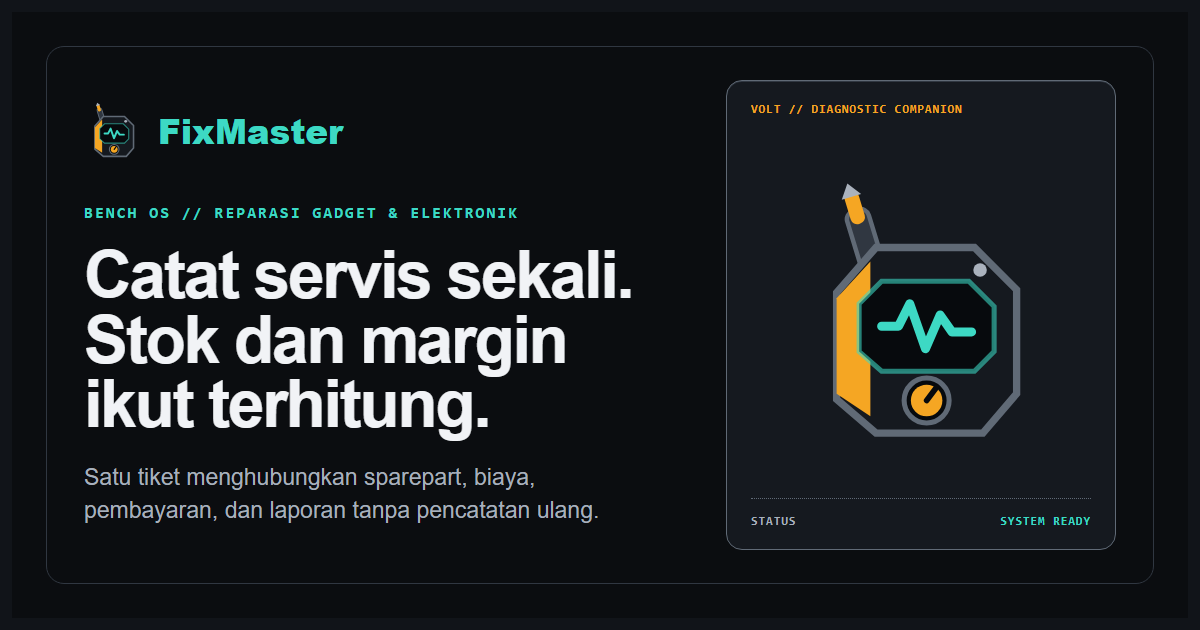
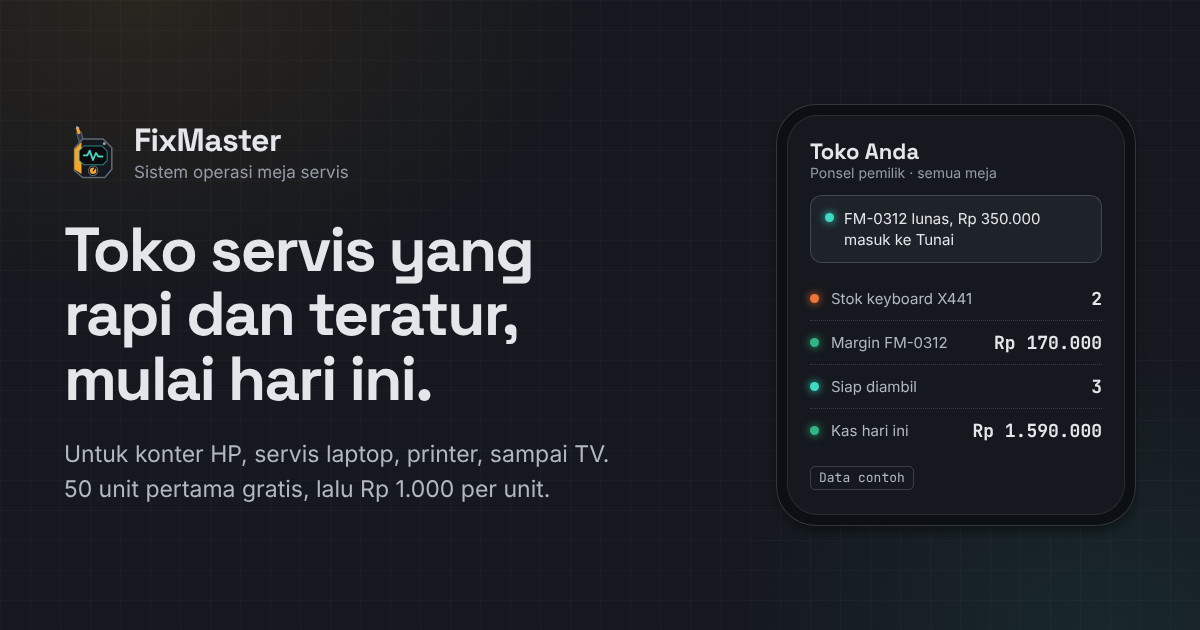
Landing: teks gerbang, catatan WA di kolom nomor, kartu pratinjau baru
- Catatan pemakaian nomor WA pindah dari bawah tombol ke bawah kolom nomor
  (teks tidak berubah) dan terhubung lewat aria-describedby.
- Lead gerbang tidak lagi mengulang isi formulir; judul gerbang akhir
  menyebut hasilnya (Buka meja penerimaan toko Anda).
- og-image.png dirender ulang: headline dan lead landing sekarang, panel
  ponsel pemilik dengan readout contoh, warna dari tokens.css, font
  self-hosted (dulu slogan lama, Arial, wordmark cyan).
- twitter:title/description disamakan dengan og:*, tidak lagi khusus HP.
- Angka harga di lead tidak terputus dari satuannya.

Claude-Session: https://claude.ai/code/session_01D77sdsRnABSZZBVSgF94BP

diff --git a/src/features/landing/DemoGate.tsx b/src/features/landing/DemoGate.tsx
@@ -155,6 +155,7 @@ export function DemoGate({
   const nameErrorId = `${formId}-name-error`;
   const phoneErrorId = `${formId}-phone-error`;
   const serverErrorId = `${formId}-server-error`;
+  const noteId = `${formId}-note`;
   const sending = status === 'sending';
 
   return (
@@ -202,13 +203,18 @@ export function DemoGate({
             value={phone}
             onChange={(e) => changePhone(e.target.value)}
             aria-invalid={errors.phone ? true : undefined}
-            aria-describedby={errors.phone ? phoneErrorId : undefined}
+            aria-describedby={errors.phone ? `${phoneErrorId} ${noteId}` : noteId}
           />
           {errors.phone && (
             <p id={phoneErrorId} className={styles.fieldError}>
               {t(errors.phone)}
             </p>
           )}
+          {/* Untuk apa nomornya dipakai, tepat di kolom yang memintanya, bukan
+              di bawah tombol (sesudah pengunjung memutuskan). */}
+          <p id={noteId} className={styles.note}>
+            {interpolate(t('demoGate.note'), { days: String(DEMO_LEAD_RETENTION_DAYS) })} {privacy}
+          </p>
         </div>
 
         {/* Jebakan bot: tidak terlihat, tidak bisa difokus, tidak dibaca
@@ -254,9 +260,6 @@ export function DemoGate({
           )}
         </button>
 
-        <p className={styles.note}>
-          {interpolate(t('demoGate.note'), { days: String(DEMO_LEAD_RETENTION_DAYS) })} {privacy}
-        </p>
       </form>
     </section>
   );

diff --git a/src/i18n/en.ts b/src/i18n/en.ts
@@ -276,10 +276,9 @@ export const en: Dictionary = {
 
   // ---------- Landing "Two Scenes" + demo gate (0102) ----------
   'demoGate.title': 'Try the demo under your shop name',
-  'demoGate.titleFinal': 'Two fields, then the demo opens',
+  'demoGate.titleFinal': "Open your shop's counter",
   'demoGate.titleDemoRoute': 'One step before the demo',
-  'demoGate.lead':
-    'The real app with sample data. Just your shop name and WhatsApp number; you don\'t need an account.',
+  'demoGate.lead': 'The real app with sample data, no account needed.',
   'demoGate.nameLabel': 'Shop name',
   'demoGate.namePlaceholder': 'e.g. Sinar Electronics Repair',
   'demoGate.phoneLabel': 'WhatsApp number',
@@ -312,7 +311,7 @@ export const en: Dictionary = {
   'landing.startFree': 'Start free',
   'landing.heroTitle': 'A tidy, orderly repair shop, starting today.',
   'landing.heroLead':
-    'For phone counters, laptop repair, printers and TVs alike. Log each unit once at the counter, and stock, cash and margin follow. The first {free} units are free, then {price} per unit.',
+    'For phone counters, laptop repair, printers and TVs alike. Log each unit once at the counter, and stock, cash and margin follow. The first {free}\u00a0units are free, then {price} per\u00a0unit.',
   'landing.waMessage': 'Hi FixMaster, I have a question about the app',
   'landing.scene.shopPlaceholder': 'Your shop',
   'landing.scene.deskLabel': 'Intake counter screen, sample data',

diff --git a/src/i18n/id.ts b/src/i18n/id.ts
@@ -277,10 +277,9 @@ export const id = {
 
   // ---------- Landing "Dua Adegan" + gerbang demo (0102) ----------
   'demoGate.title': 'Coba demo dengan nama toko Anda',
-  'demoGate.titleFinal': 'Dua kolom, lalu demo terbuka',
+  'demoGate.titleFinal': 'Buka meja penerimaan toko Anda',
   'demoGate.titleDemoRoute': 'Satu langkah sebelum demo',
-  'demoGate.lead':
-    'Aplikasi asli dengan data contoh. Cukup nama toko dan nomor WA, tidak perlu akun.',
+  'demoGate.lead': 'Aplikasi asli dengan data contoh, tanpa membuat akun.',
   'demoGate.nameLabel': 'Nama toko',
   'demoGate.namePlaceholder': 'mis. Sinar Servis Elektronik',
   'demoGate.phoneLabel': 'Nomor WhatsApp',
@@ -313,7 +312,7 @@ export const id = {
   'landing.startFree': 'Mulai gratis',
   'landing.heroTitle': 'Toko servis yang rapi dan teratur, mulai hari ini.',
   'landing.heroLead':
-    'Untuk konter HP, servis laptop, printer, sampai TV. Unit dicatat sekali di meja, lalu stok, kas, dan margin ikut tercatat. {free} unit pertama gratis, lalu {price} per unit.',
+    'Untuk konter HP, servis laptop, printer, sampai TV. Unit dicatat sekali di meja, lalu stok, kas, dan margin ikut tercatat. {free}\u00a0unit pertama gratis, lalu {price} per\u00a0unit.',
   'landing.waMessage': 'Halo FixMaster, saya mau tanya soal aplikasinya',
   'landing.scene.shopPlaceholder': 'Toko Anda',
   'landing.scene.deskLabel': 'Layar meja penerimaan, data contoh',

diff --git a/index.html b/index.html
@@ -43,12 +43,12 @@
     <meta property="og:image:secure_url" content="https://fixmaster.app/og-image.png" />
     <meta property="og:image:width" content="1200" />
     <meta property="og:image:height" content="630" />
-    <meta property="og:image:alt" content="FixMaster menghubungkan tiket servis, stok sparepart, dan margin konter" />
+    <meta property="og:image:alt" content="FixMaster: toko servis yang rapi dan teratur, mulai hari ini. Contoh ponsel pemilik dengan stok, margin, dan kas." />
     <meta name="twitter:card" content="summary_large_image" />
-    <meta name="twitter:title" content="FixMaster | Aplikasi Servis HP: Tiket, Stok &amp; Margin" />
+    <meta name="twitter:title" content="FixMaster | Aplikasi Toko Reparasi Elektronik: Tiket, Stok, Kas &amp; Margin" />
     <meta
       name="twitter:description"
-      content="Catat servis sekali. Stok, biaya, pembayaran, dan margin ikut terhubung tanpa pencatatan ulang."
+      content="Satu tiket servis menghubungkan sparepart, stok, biaya, pembayaran, dan margin, tanpa menyalin ulang buku, chat, atau Excel."
     />
     <meta name="twitter:image" content="https://fixmaster.app/og-image.png" />
 

diff --git a/src/features/landing/LandingPage.tsx b/src/features/landing/LandingPage.tsx
@@ -343,7 +343,8 @@ export function LandingPage({ onStart = defaultStart }: LandingPageProps) {
             <p className={styles.heroLead}>
               {interpolate(t('landing.heroLead'), {
                 free: String(FREE_UNITS),
-                price: fmtRp(UNIT_PRICE),
+                // "Rp" tidak boleh terpisah dari angkanya di ujung baris.
+                price: fmtRp(UNIT_PRICE).replace(' ', '\u00a0'),
               })}
             </p>
           </div>
